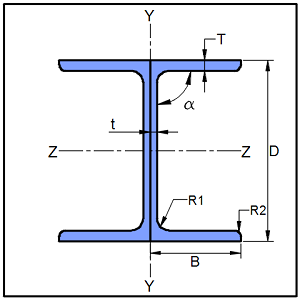
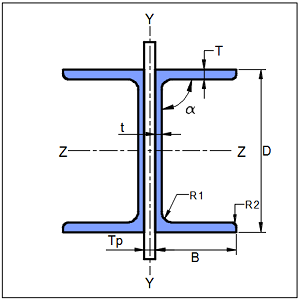
images and changes in dp done

Changed region(s): [[0.0, 0.0, 1.0, 1.0]]

diff --git a/design_type/tension_member/tension_bolted.py b/design_type/tension_member/tension_bolted.py
@@ -2190,6 +2190,7 @@ class Tension_bolted(Member):
                                       'B(mm)': round(section_size.flange_width, 2),
                                       't(mm)': round(section_size.web_thickness, 2),
                                       'T(mm)': round(section_size.flange_thickness, 2),
+                                      'Tp(mm)': round(self.plate.thickness_provided, 2),
                                       'FlangeSlope': round(section_size.flange_slope, 2),
                                       'R1(mm)': round(section_size.root_radius, 2),
                                       'R2(mm)': round(section_size.toe_radius, 2),
@@ -2258,6 +2259,7 @@ class Tension_bolted(Member):
                                       'a(mm)': round(section_size.max_leg,2),
                                       'b(mm)': round(section_size.min_leg,2),
                                       't(mm)': round(section_size.thickness,2),
+                                      'Tp(mm)': round(self.plate.thickness_provided, 2),
                                       'R1(mm)': round(section_size.root_radius,2),
                                       'R2(mm)': round(section_size.toe_radius,2),
                                       'Cy(mm)': Cy,
@@ -2288,6 +2290,7 @@ class Tension_bolted(Member):
                                       'a(mm)': round(section_size.max_leg, 2),
                                       'b(mm)': round(section_size.min_leg, 2),
                                       't(mm)': round(section_size.thickness, 2),
+                                      'Tp(mm)': round(self.plate.thickness_provided, 2),
                                       'R1(mm)': round(section_size.root_radius, 2),
                                       'R2(mm)': round(section_size.toe_radius, 2),
                                       'Iz(mm4)': round((Angle_attributes.calc_MomentOfAreaZ(section_size.max_leg,section_size.min_leg,section_size.thickness,self.loc) * 10000), 2),

diff --git a/Common.py b/Common.py
@@ -525,8 +525,8 @@ KEY_DISP_SLENDER = 'Slenderness'
 
 
 KEY_DISP_PLATETHK = 'Thickness (mm)'
-KEY_DISP_DPPLATETHK = 'Plate thickness (mm)'
-
+KEY_DISP_DPPLATETHK = 'Endplate thickness, T (mm)'
+KEY_DISP_DPPLATETHK01 = 'Endplate thickness, Tp (mm)'
 
 DISP_TITLE_TENSION = 'Tension Capacity'
 KEY_DISP_FLANGESPLATE_PREFERENCES = 'Preferences'
@@ -848,8 +848,8 @@ KEY_DISP_Iw = 'Warping Constant, I<sub>w</sub> (cm<sup>6</sup>)'
 KEY_DISP_SOURCE = 'Source'
 KEY_DISP_POISSON_RATIO = 'Poissons ratio, v'
 KEY_DISP_THERMAL_EXP = 'Thermal expansion coeff.a <br>(x10<sup>-6</sup>/ <sup>0</sup>C)'
-KEY_DISP_A= 'A'
-KEY_DISP_B= 'B'
+KEY_DISP_A= 'Long Leg, A (mm)*'
+KEY_DISP_B= 'Short Leg, B (mm)*'
 KEY_DISP_LEG_THK = 'Leg Thickness, t (mm)*'
 KEY_DISP_BASE_PLATE_MATERIAL = 'Material'
 KEY_DISP_BASE_PLATE_FU = 'Ultimate strength, fu (MPa)'

diff --git a/design_type/member.py b/design_type/member.py
@@ -509,7 +509,7 @@ class Member(Main):
         t12 = ('Label_5', KEY_DISP_TOE_R, TYPE_TEXTBOX, None, toe_radius)
         section.append(t12)
 
-        t12 = ('Label_0', KEY_DISP_DPPLATETHK, TYPE_COMBOBOX, VALUES_PLATETHK_CUSTOMIZED, plate_thk)
+        t12 = ('Label_0', KEY_DISP_DPPLATETHK01, TYPE_COMBOBOX, VALUES_PLATETHK_CUSTOMIZED, plate_thk)
         section.append(t12)
 
         t17 = (None, KEY_DISP_SEC_PROP, TYPE_TITLE, None, None)
